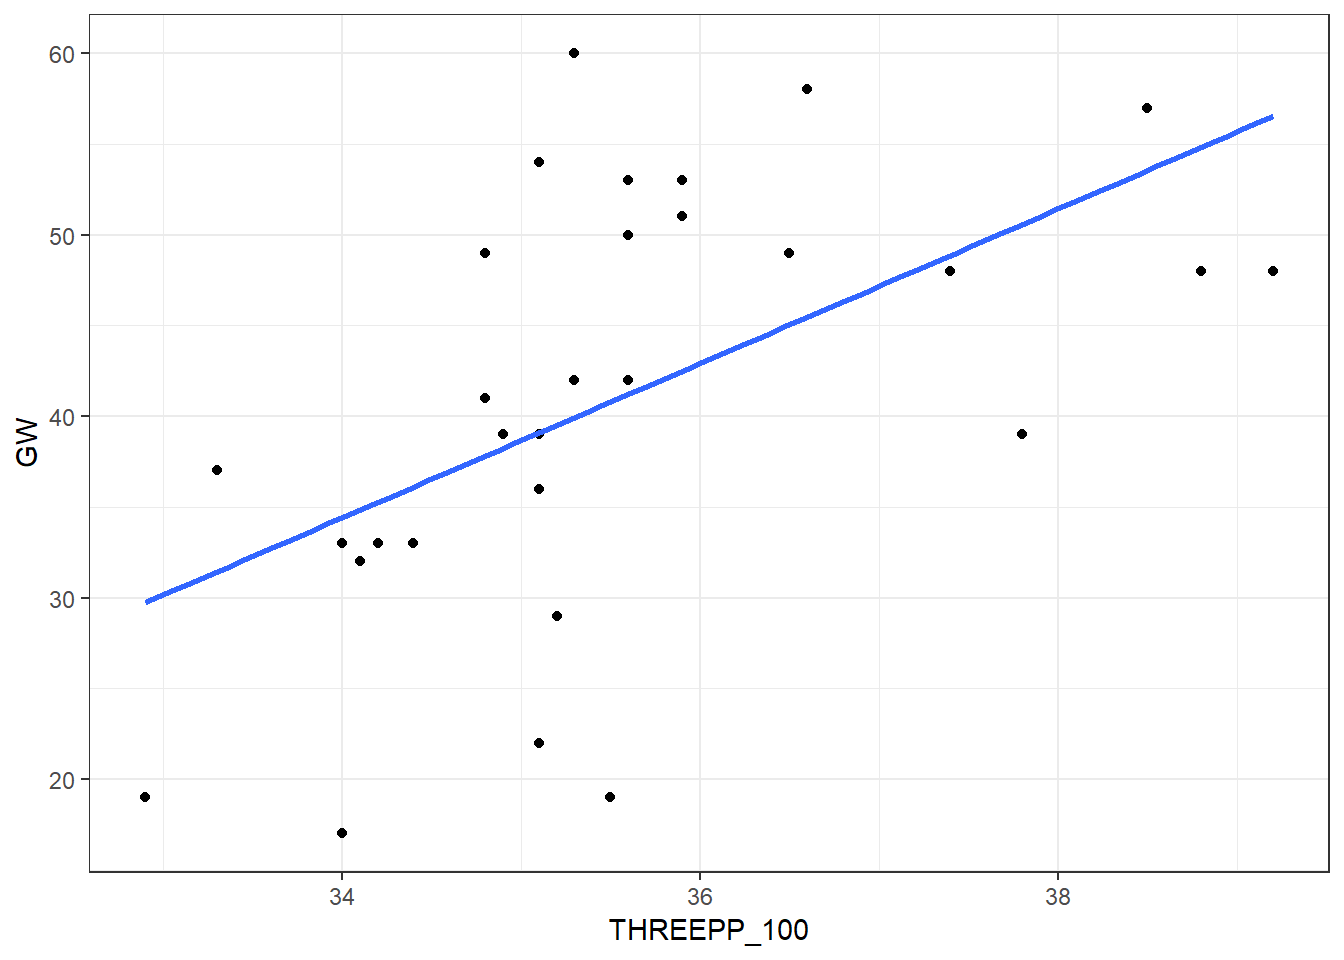
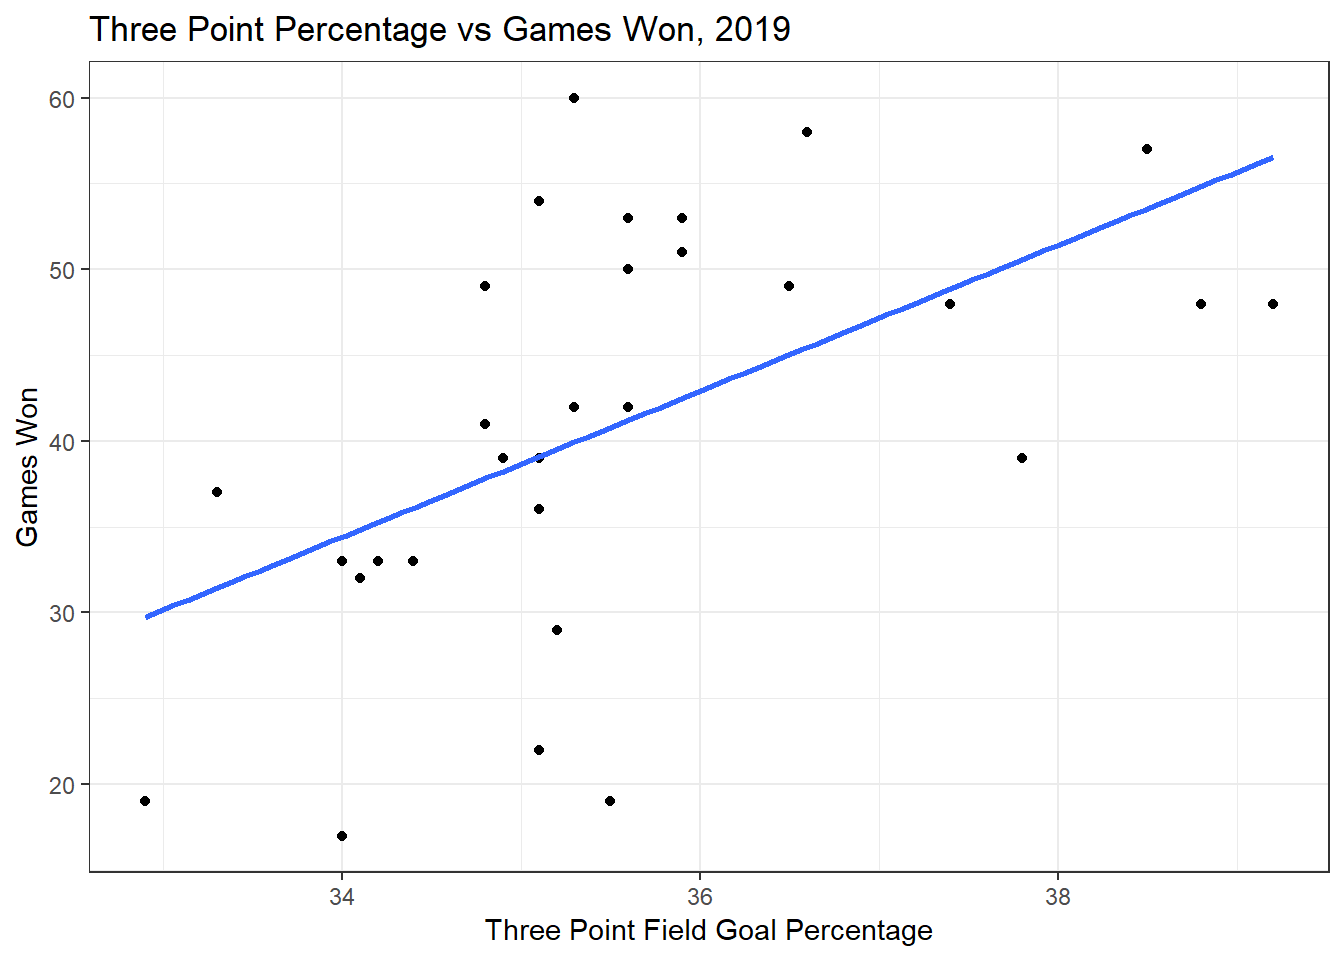
finished regression post

diff --git a/2019/03/29/does-three-point-field-goal-percentage-affect-winning/index.html b/2019/03/29/does-three-point-field-goal-percentage-affect-winning/index.html
@@ -96,20 +96,14 @@ summary(threePointModel)</code></pre>
 ## Residual standard error: 10.29 on 28 degrees of freedom
 ## Multiple R-squared:  0.2936, Adjusted R-squared:  0.2684 
 ## F-statistic: 11.64 on 1 and 28 DF,  p-value: 0.001983</code></pre>
-<p>I try to explain Games Won (GW) by that team’s average Three Point field goal percentage (THREEPP) per game. I’m just looking at data from the most recent NBA regular season, 2018-2019. We can see from the model that as Three Point Percentage goes up,</p>
-<pre class="r"><code>ggplot(data = stats_2019, aes(x = THREEPP_100, y = GW)) +
-  geom_point() +
-  geom_smooth(method=&#39;lm&#39;,formula=y~x, se=FALSE) +
-  theme_bw()</code></pre>
+<p>I try to explain Games Won (GW) by that team’s average Three Point field goal percentage (THREEPP_100) per game. I’m just looking at data from the most recent NBA regular season, 2018-2019. We can see from the model that as Three Point Percentage goes up by 1 percent, the number of games won by that team increasees by 4.25.</p>
 <p><img src="/post/2019-05-15-does-three-point-field-goal-percentage-affect-winning_files/figure-html/unnamed-chunk-2-1.png" width="672" /></p>
-<pre class="r"><code>ggplot(data = statsAllYears, aes(x = THREEPP, y = GW)) +
-  facet_wrap(~Year) +
-  geom_point() +
-  geom_smooth(method=&#39;lm&#39;,formula=y~x, se=FALSE) +
-  theme_bw()</code></pre>
-<p><img src="/post/2019-05-15-does-three-point-field-goal-percentage-affect-winning_files/figure-html/unnamed-chunk-3-1.png" width="672" /></p>
-<pre class="r"><code>model_three &lt;- lm(GW~THREEPP_100*Year, data = statsAllYears)
-anova(model_three)</code></pre>
+<p>The regression model for the year 2019 has a positive slope.</p>
+<p>Let’s see the regression lines for the different years. <img src="/post/2019-05-15-does-three-point-field-goal-percentage-affect-winning_files/figure-html/unnamed-chunk-3-1.png" width="672" /></p>
+<p>We can see that all the slopes are positive, so an increase in three point percentage means more games won, except for the year 1997.</p>
+<p>Let’s run an anova test, to see if year is significant.</p>
+<pre class="r"><code>model_threes &lt;- lm(GW~THREEPP_100*Year, data = statsAllYears)
+anova(model_threes)</code></pre>
 <pre><code>## Analysis of Variance Table
 ## 
 ## Response: GW
@@ -120,8 +114,7 @@ anova(model_three)</code></pre>
 ## Residuals        663  83160   125.4                       
 ## ---
 ## Signif. codes:  0 &#39;***&#39; 0.001 &#39;**&#39; 0.01 &#39;*&#39; 0.05 &#39;.&#39; 0.1 &#39; &#39; 1</code></pre>
-<pre class="r"><code>m.lst &lt;- lstrends(model_three, &quot;Year&quot;, var=&quot;THREEPP_100&quot;)
-m.lst</code></pre>
+<p>We can see that the p-value of Year is less than .05, so year is significant.</p>
 <pre><code>##  Year THREEPP_100.trend    SE  df lower.CL upper.CL
 ##  1996              3.59 0.939 663   1.7417     5.43
 ##  1997             -2.88 0.942 663  -4.7288    -1.03
@@ -149,6 +142,7 @@ m.lst</code></pre>
 ##  2019              4.25 1.357 663   1.5888     6.92
 ## 
 ## Confidence level used: 0.95</code></pre>
+<p>Looking at the different regression slopes (THREEPP_100.trend) for the different years, we can see the 2015-2019 have a significantly higher regression slopes than of previous years.</p>
 
     </div>
   </article>
